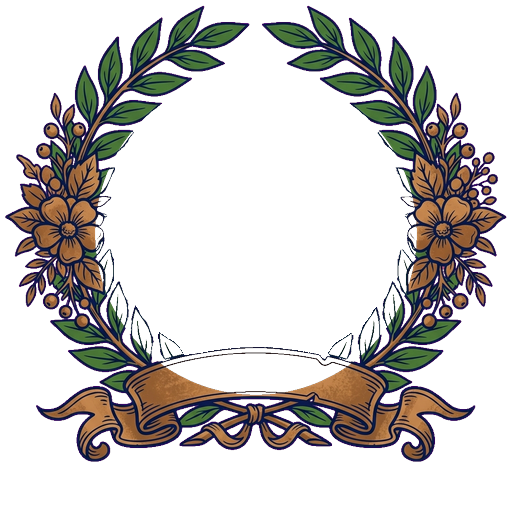
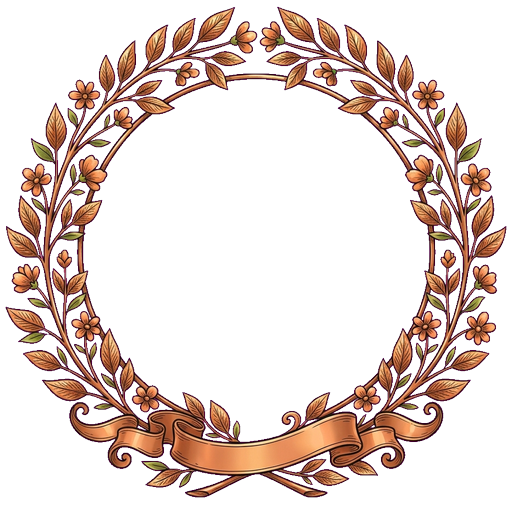
feat: re-generate Silver V4 & Bronze V4 slender laurel frames, and separate Top 2 vs Top 3 tuner controls in podium_tuner.html

diff --git a/podium_tuner.html b/podium_tuner.html
@@ -66,7 +66,7 @@
         </div>
 
         <!-- CONTROL SLIDERS FORM -->
-        <div class="flex flex-col gap-5 pt-2">
+        <div class="flex flex-col gap-4 pt-2">
             <!-- TOP 1 CONTROLS -->
             <div class="p-4 bg-amber-50 rounded-2xl border border-amber-200 flex flex-col gap-3">
                 <h3 class="font-extrabold text-amber-900 text-xs uppercase flex items-center gap-1.5">
@@ -92,10 +92,10 @@
                 </div>
             </div>
 
-            <!-- TOP 2 & 3 CONTROLS -->
-            <div class="p-4 bg-slate-50 rounded-2xl border border-slate-200 flex flex-col gap-3">
+            <!-- TOP 2 CONTROLS -->
+            <div class="p-4 bg-slate-100 rounded-2xl border border-slate-300 flex flex-col gap-3">
                 <h3 class="font-extrabold text-slate-800 text-xs uppercase flex items-center gap-1.5">
-                    <span>🥈 🥉 Top 2 & Top 3 (Vòng Bạc & Đồng)</span>
+                    <span>🥈 Top 2 (Vòng Bạc)</span>
                 </h3>
                 <div class="grid grid-cols-2 gap-3 text-xs font-bold">
                     <div>
@@ -116,6 +116,31 @@
                     </div>
                 </div>
             </div>
+
+            <!-- TOP 3 CONTROLS -->
+            <div class="p-4 bg-orange-50/80 rounded-2xl border border-orange-200 flex flex-col gap-3">
+                <h3 class="font-extrabold text-amber-900 text-xs uppercase flex items-center gap-1.5">
+                    <span>🥉 Top 3 (Vòng Đồng)</span>
+                </h3>
+                <div class="grid grid-cols-2 gap-3 text-xs font-bold">
+                    <div>
+                        <label class="block text-slate-600 mb-1">Size Vòng Nguyệt Quế (<span id="val-w3">88</span>px)</label>
+                        <input type="range" id="slider-w3" min="50" max="140" value="88" class="w-full accent-amber-700" oninput="updateTuner()">
+                    </div>
+                    <div>
+                        <label class="block text-slate-600 mb-1">Size Avatar Tròn (<span id="val-a3">56</span>px)</label>
+                        <input type="range" id="slider-a3" min="30" max="90" value="56" class="w-full accent-amber-700" oninput="updateTuner()">
+                    </div>
+                    <div>
+                        <label class="block text-slate-600 mb-1">Tọa độ Nguyệt Quế X (<span id="val-x3">0</span>px)</label>
+                        <input type="range" id="slider-x3" min="-30" max="30" value="0" class="w-full accent-amber-700" oninput="updateTuner()">
+                    </div>
+                    <div>
+                        <label class="block text-slate-600 mb-1">Tọa độ Nguyệt Quế Y (<span id="val-y3">0</span>px)</label>
+                        <input type="range" id="slider-y3" min="-30" max="30" value="0" class="w-full accent-amber-700" oninput="updateTuner()">
+                    </div>
+                </div>
+            </div>
         </div>
 
         <!-- ACTIONS -->
@@ -133,12 +158,15 @@
     <script>
         const defaultConfig = {
             t1_w: 112, t1_a: 72, t1_x: 0, t1_y: 0,
-            t2_w: 88,  t2_a: 56, t2_x: 0, t2_y: 0
+            t2_w: 88,  t2_a: 56, t2_x: 0, t2_y: 0,
+            t3_w: 88,  t3_a: 56, t3_x: 0, t3_y: 0
         };
 
         function getConfig() {
             const saved = localStorage.getItem('smurf_tuner_config');
-            return saved ? JSON.parse(saved) : defaultConfig;
+            if (!saved) return defaultConfig;
+            const parsed = JSON.parse(saved);
+            return { ...defaultConfig, ...parsed };
         }
 
         function initTuner() {
@@ -152,6 +180,11 @@
             document.getElementById('slider-a2').value = c.t2_a;
             document.getElementById('slider-x2').value = c.t2_x;
             document.getElementById('slider-y2').value = c.t2_y;
+
+            document.getElementById('slider-w3').value = c.t3_w;
+            document.getElementById('slider-a3').value = c.t3_a;
+            document.getElementById('slider-x3').value = c.t3_x;
+            document.getElementById('slider-y3').value = c.t3_y;
 
             updateTuner();
         }
@@ -167,6 +200,11 @@
             const x2 = parseInt(document.getElementById('slider-x2').value);
             const y2 = parseInt(document.getElementById('slider-y2').value);
 
+            const w3 = parseInt(document.getElementById('slider-w3').value);
+            const a3 = parseInt(document.getElementById('slider-a3').value);
+            const x3 = parseInt(document.getElementById('slider-x3').value);
+            const y3 = parseInt(document.getElementById('slider-y3').value);
+
             // Update Labels
             document.getElementById('val-w1').textContent = w1;
             document.getElementById('val-a1').textContent = a1;
@@ -178,37 +216,46 @@
             document.getElementById('val-x2').textContent = x2;
             document.getElementById('val-y2').textContent = y2;
 
-            // Apply to Top 1
+            document.getElementById('val-w3').textContent = w3;
+            document.getElementById('val-a3').textContent = a3;
+            document.getElementById('val-x3').textContent = x3;
+            document.getElementById('val-y3').textContent = y3;
+
+            // Apply Top 1
             const box1 = document.getElementById('box-top1');
             const avt1 = document.getElementById('avatar-top1');
             const wrt1 = document.getElementById('wreath-top1');
-
             box1.style.width = Math.max(w1, a1) + 'px';
             box1.style.height = Math.max(w1, a1) + 'px';
-
             avt1.style.width = a1 + 'px';
             avt1.style.height = a1 + 'px';
-
             wrt1.style.width = w1 + 'px';
             wrt1.style.height = w1 + 'px';
             wrt1.style.transform = `translate(${x1}px, ${y1}px)`;
 
-            // Apply to Top 2 & Top 3
-            ['top2', 'top3'].forEach(id => {
-                const box = document.getElementById('box-' + id);
-                const avt = document.getElementById('avatar-' + id);
-                const wrt = document.getElementById('wreath-' + id);
+            // Apply Top 2
+            const box2 = document.getElementById('box-top2');
+            const avt2 = document.getElementById('avatar-top2');
+            const wrt2 = document.getElementById('wreath-top2');
+            box2.style.width = Math.max(w2, a2) + 'px';
+            box2.style.height = Math.max(w2, a2) + 'px';
+            avt2.style.width = a2 + 'px';
+            avt2.style.height = a2 + 'px';
+            wrt2.style.width = w2 + 'px';
+            wrt2.style.height = w2 + 'px';
+            wrt2.style.transform = `translate(${x2}px, ${y2}px)`;
 
-                box.style.width = Math.max(w2, a2) + 'px';
-                box.style.height = Math.max(w2, a2) + 'px';
-
-                avt.style.width = a2 + 'px';
-                avt.style.height = a2 + 'px';
-
-                wrt.style.width = w2 + 'px';
-                wrt.style.height = w2 + 'px';
-                wrt.style.transform = `translate(${x2}px, ${y2}px)`;
-            });
+            // Apply Top 3
+            const box3 = document.getElementById('box-top3');
+            const avt3 = document.getElementById('avatar-top3');
+            const wrt3 = document.getElementById('wreath-top3');
+            box3.style.width = Math.max(w3, a3) + 'px';
+            box3.style.height = Math.max(w3, a3) + 'px';
+            avt3.style.width = a3 + 'px';
+            avt3.style.height = a3 + 'px';
+            wrt3.style.width = w3 + 'px';
+            wrt3.style.height = w3 + 'px';
+            wrt3.style.transform = `translate(${x3}px, ${y3}px)`;
         }
 
         function saveConfig() {
@@ -221,7 +268,12 @@
                 t2_w: parseInt(document.getElementById('slider-w2').value),
                 t2_a: parseInt(document.getElementById('slider-a2').value),
                 t2_x: parseInt(document.getElementById('slider-x2').value),
-                t2_y: parseInt(document.getElementById('slider-y2').value)
+                t2_y: parseInt(document.getElementById('slider-y2').value),
+
+                t3_w: parseInt(document.getElementById('slider-w3').value),
+                t3_a: parseInt(document.getElementById('slider-a3').value),
+                t3_x: parseInt(document.getElementById('slider-x3').value),
+                t3_y: parseInt(document.getElementById('slider-y3').value)
             };
             localStorage.setItem('smurf_tuner_config', JSON.stringify(config));
 

diff --git a/registration.html b/registration.html
@@ -13,7 +13,7 @@
     <script src="https://cdn.tailwindcss.com?plugins=forms,container-queries"></script>
     <link href="https://fonts.googleapis.com/css2?family=Baloo+2:wght@400;600;700;800&family=Nunito:wght@400;500;600;700;800;900&family=Quicksand:wght@500;600;700&display=swap" rel="stylesheet"/>
     <link href="https://fonts.googleapis.com/css2?family=Material+Symbols+Outlined:wght,FILL@100..700,0..1&amp;display=swap" rel="stylesheet"/>
-    <link href="styles.css?v=1784769168161" rel="stylesheet"/>
+    <link href="styles.css?v=1784770223661" rel="stylesheet"/>
     <!-- html2canvas library for card export -->
     <script src="https://cdnjs.cloudflare.com/ajax/libs/html2canvas/1.4.1/html2canvas.min.js"></script>
     <script id="tailwind-config">
@@ -744,13 +744,13 @@
         <div id="map-viewport" class="w-full h-[calc(100vh-100px)] min-h-[550px] relative overflow-hidden select-none flex items-center justify-center rounded-b-[24px]">
             
             <!-- Blurred Background to cover empty side margins on wide desktop views dynamically -->
-            <div class="absolute inset-0 z-0 bg-cover bg-center filter blur-xl scale-110 opacity-50 pointer-events-none" style="background-image: url('src/assets/smurf_village_base_map_vertical.png?v=1784769168161');"></div>
+            <div class="absolute inset-0 z-0 bg-cover bg-center filter blur-xl scale-110 opacity-50 pointer-events-none" style="background-image: url('src/assets/smurf_village_base_map_vertical.png?v=1784770223661');"></div>
             
             <!-- Map Board: Aspect Ratio Locked (512x1024) -->
             <div id="map-board" class="relative w-full aspect-[1/2] shadow-inner">
                 
                 <!-- Base Map Image (Absolute fit to prevent alignment drift) -->
-                <img src="src/assets/smurf_village_base_map_vertical.png?v=1784769168161" class="absolute inset-0 w-full h-full object-fill z-0 pointer-events-none select-none">
+                <img src="src/assets/smurf_village_base_map_vertical.png?v=1784770223661" class="absolute inset-0 w-full h-full object-fill z-0 pointer-events-none select-none">
                 
                 <!-- Floating Clouds -->
                 <div class="absolute top-10 left-[5%] text-5xl opacity-20 pointer-events-none float-cloud" style="animation: floatSlow 20s linear infinite;">☁️</div>
@@ -3553,11 +3553,13 @@
             // Load interactive Tuner Config from localStorage if customized
             const tc = JSON.parse(localStorage.getItem('smurf_tuner_config') || 'null') || {
                 t1_w: 112, t1_a: 72, t1_x: 0, t1_y: 0,
-                t2_w: 88,  t2_a: 56, t2_x: 0, t2_y: 0
+                t2_w: 88,  t2_a: 56, t2_x: 0, t2_y: 0,
+                t3_w: 88,  t3_a: 56, t3_x: 0, t3_y: 0
             };
 
             const t1Box = Math.max(tc.t1_w, tc.t1_a);
             const t2Box = Math.max(tc.t2_w, tc.t2_a);
+            const t3Box = Math.max(tc.t3_w || tc.t2_w || 88, tc.t3_a || tc.t2_a || 56);
 
             if (stage) {
                 let html = '';
@@ -3609,16 +3611,20 @@
 
                 // Rank 3 (Bronze - Right)
                 if (r3) {
+                    const w3 = tc.t3_w || tc.t2_w || 88;
+                    const a3 = tc.t3_a || tc.t2_a || 56;
+                    const x3 = tc.t3_x || 0;
+                    const y3 = tc.t3_y || 0;
                     html += `
                         <div onclick="openModal('${r3.smurfName.replace(/'/g, "\\'")}', this)" class="flex flex-col items-center cursor-pointer group active:scale-95 transition-all w-[100px] relative z-10">
                             <span class="text-[9px] bg-amber-100/90 text-amber-800 px-2 py-0.5 rounded-full font-extrabold mb-1 shadow-sm uppercase tracking-wider">TOP 3</span>
-                            <div class="relative flex items-center justify-center aspect-square" style="width: ${t2Box}px; height: ${t2Box}px;">
+                            <div class="relative flex items-center justify-center aspect-square" style="width: ${t3Box}px; height: ${t3Box}px;">
                                 <!-- Inner Circular Avatar -->
-                                <div class="rounded-full overflow-hidden shadow-sm bg-white relative z-0 aspect-square border-2 border-amber-600/40 flex items-center justify-center" style="width: ${tc.t2_a}px; height: ${tc.t2_a}px;">
+                                <div class="rounded-full overflow-hidden shadow-sm bg-white relative z-0 aspect-square border-2 border-amber-600/40 flex items-center justify-center" style="width: ${a3}px; height: ${a3}px;">
                                     <img src="${r3.avatar}" class="w-full h-full object-cover" onerror="this.src='avatars/smurf_basic_placeholder.png'">
                                 </div>
                                 <!-- Laurel Wreath Overlay -->
-                                <img src="src/assets/smurf_laurel_bronze.png" class="absolute z-10 pointer-events-none filter drop-shadow-md group-hover:scale-105 transition-transform" style="width: ${tc.t2_w}px; height: ${tc.t2_w}px; transform: translate(${tc.t2_x}px, ${tc.t2_y}px);" alt="Bronze Laurel Frame">
+                                <img src="src/assets/smurf_laurel_bronze.png" class="absolute z-10 pointer-events-none filter drop-shadow-md group-hover:scale-105 transition-transform" style="width: ${w3}px; height: ${w3}px; transform: translate(${x3}px, ${y3}px);" alt="Bronze Laurel Frame">
                             </div>
                             <div class="flex flex-col items-center text-center mt-1 w-full">
                                 <span class="text-[11px] font-fredoka font-bold text-slate-800 truncate w-full px-0.5">${r3.smurfName}</span>

diff --git a/src/core/app.js b/src/core/app.js
@@ -1743,11 +1743,13 @@
             // Load interactive Tuner Config from localStorage if customized
             const tc = JSON.parse(localStorage.getItem('smurf_tuner_config') || 'null') || {
                 t1_w: 112, t1_a: 72, t1_x: 0, t1_y: 0,
-                t2_w: 88,  t2_a: 56, t2_x: 0, t2_y: 0
+                t2_w: 88,  t2_a: 56, t2_x: 0, t2_y: 0,
+                t3_w: 88,  t3_a: 56, t3_x: 0, t3_y: 0
             };
 
             const t1Box = Math.max(tc.t1_w, tc.t1_a);
             const t2Box = Math.max(tc.t2_w, tc.t2_a);
+            const t3Box = Math.max(tc.t3_w || tc.t2_w || 88, tc.t3_a || tc.t2_a || 56);
 
             if (stage) {
                 let html = '';
@@ -1799,16 +1801,20 @@
 
                 // Rank 3 (Bronze - Right)
                 if (r3) {
+                    const w3 = tc.t3_w || tc.t2_w || 88;
+                    const a3 = tc.t3_a || tc.t2_a || 56;
+                    const x3 = tc.t3_x || 0;
+                    const y3 = tc.t3_y || 0;
                     html += `
                         <div onclick="openModal('${r3.smurfName.replace(/'/g, "\\'")}', this)" class="flex flex-col items-center cursor-pointer group active:scale-95 transition-all w-[100px] relative z-10">
                             <span class="text-[9px] bg-amber-100/90 text-amber-800 px-2 py-0.5 rounded-full font-extrabold mb-1 shadow-sm uppercase tracking-wider">TOP 3</span>
-                            <div class="relative flex items-center justify-center aspect-square" style="width: ${t2Box}px; height: ${t2Box}px;">
+                            <div class="relative flex items-center justify-center aspect-square" style="width: ${t3Box}px; height: ${t3Box}px;">
                                 <!-- Inner Circular Avatar -->
-                                <div class="rounded-full overflow-hidden shadow-sm bg-white relative z-0 aspect-square border-2 border-amber-600/40 flex items-center justify-center" style="width: ${tc.t2_a}px; height: ${tc.t2_a}px;">
+                                <div class="rounded-full overflow-hidden shadow-sm bg-white relative z-0 aspect-square border-2 border-amber-600/40 flex items-center justify-center" style="width: ${a3}px; height: ${a3}px;">
                                     <img src="${r3.avatar}" class="w-full h-full object-cover" onerror="this.src='avatars/smurf_basic_placeholder.png'">
                                 </div>
                                 <!-- Laurel Wreath Overlay -->
-                                <img src="src/assets/smurf_laurel_bronze.png" class="absolute z-10 pointer-events-none filter drop-shadow-md group-hover:scale-105 transition-transform" style="width: ${tc.t2_w}px; height: ${tc.t2_w}px; transform: translate(${tc.t2_x}px, ${tc.t2_y}px);" alt="Bronze Laurel Frame">
+                                <img src="src/assets/smurf_laurel_bronze.png" class="absolute z-10 pointer-events-none filter drop-shadow-md group-hover:scale-105 transition-transform" style="width: ${w3}px; height: ${w3}px; transform: translate(${x3}px, ${y3}px);" alt="Bronze Laurel Frame">
                             </div>
                             <div class="flex flex-col items-center text-center mt-1 w-full">
                                 <span class="text-[11px] font-fredoka font-bold text-slate-800 truncate w-full px-0.5">${r3.smurfName}</span>